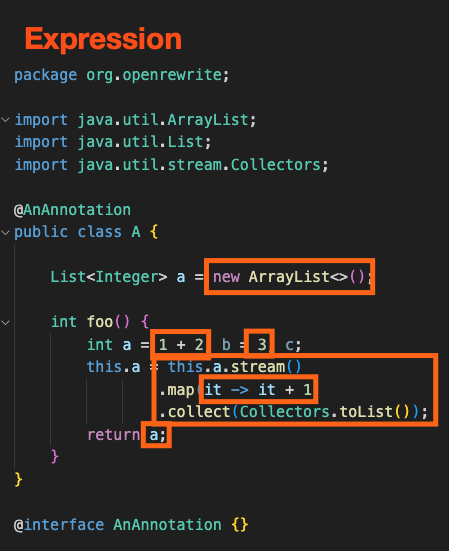
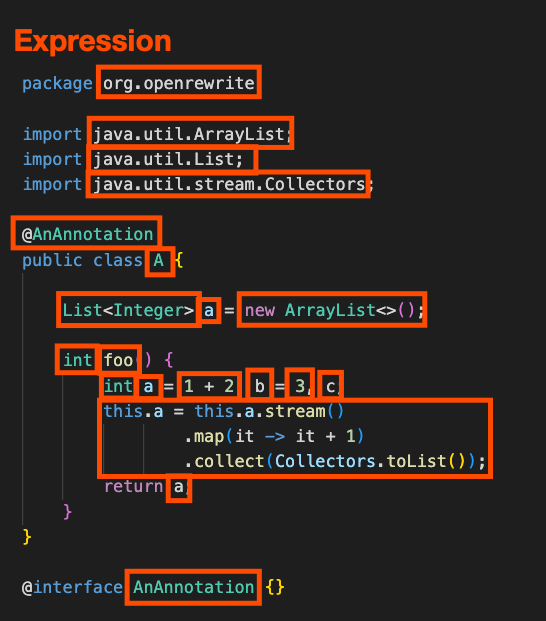
Revert "Update expression documentation"
This reverts commit d61e7aa8f826b64d23ad5391fcb9b2e40fa9cdd7.

Apparently that wasn't actually true.

Changed region(s): [[0.0, 0.0309, 0.9978, 0.8947], [0.0312, 0.8947, 0.5612, 0.9873], [0.0935, 0.8022, 0.1247, 0.833]]

diff --git a/docs/concepts-and-explanations/lst-examples.md b/docs/concepts-and-explanations/lst-examples.md
@@ -95,9 +95,9 @@ A [CompilationUnit](https://github.com/openrewrite/rewrite/blob/v7.33.0/rewrite-
 
 ### Expression
 
-In general, an [Expression](https://github.com/openrewrite/rewrite/blob/v7.33.0/rewrite-java/src/main/java/org/openrewrite/java/tree/Expression.java) is anything that has a type and can be passed as an argument to a method or assigned to a local variable.
+An [Expression](https://github.com/openrewrite/rewrite/blob/v7.33.0/rewrite-java/src/main/java/org/openrewrite/java/tree/Expression.java) is anything that returns a value. `MethodInvocation`, `Identifier`, and `Binary` are all examples of expressions. Please note that some LSTs such as `MethodInvocation` are both a [Statement](#statement) and an Expression.
 
-In the below example, only some of the expressions are highlighted due to some of them being nested in one another. 
+In the below code, only some of the expressions are highlighted as expressions can often have many expressions inside of them and it would be too difficult to read if all of them were highlighted. For instance, `import java.util.ArrayList` is many expressions (`java`, `util`, `ArrayList`, `java.util`, and `java.util.ArrayList`).
 
 ![Expression Example](./assets/Expression.png)
 
